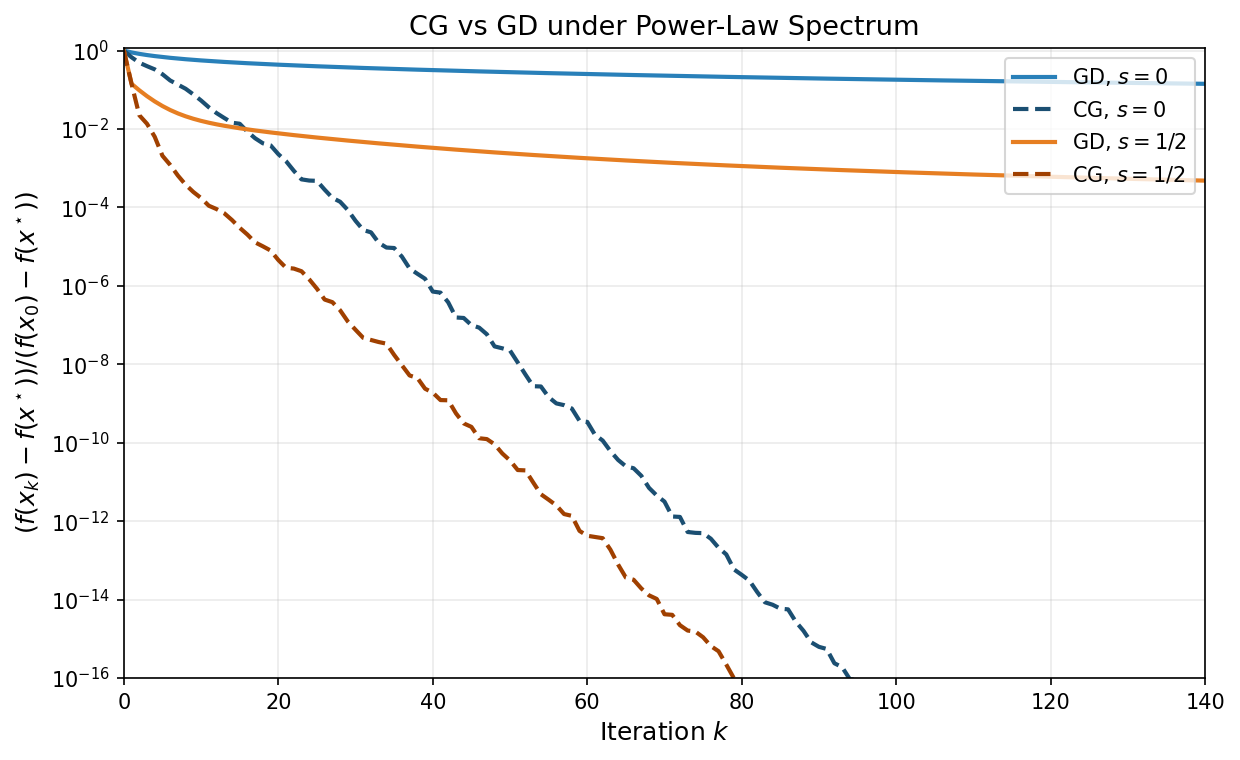
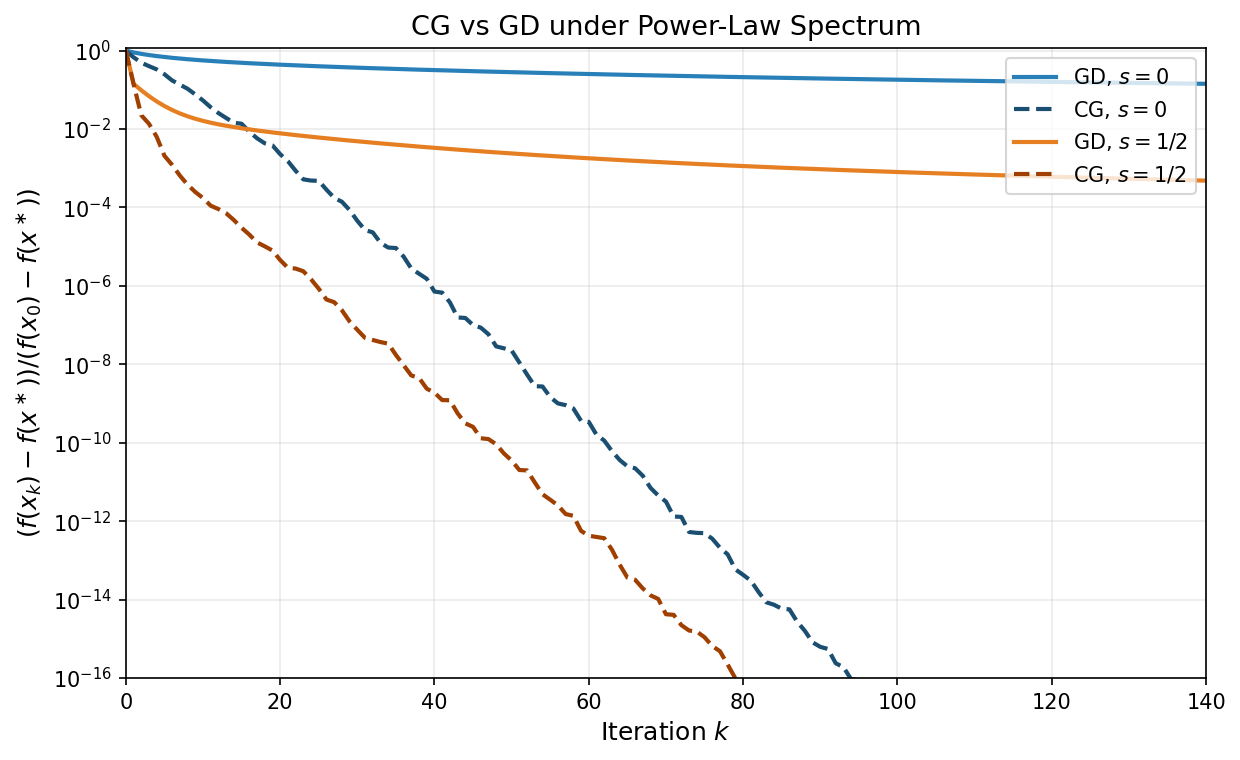
Align figure labels with text notation in week1
- Fix swapped regimes in spectral-density caption (left panel
  describes phi(lambda)=M*lambda^{a-1}; correct regimes are a>1,
  a=1, a<1, not a>0, a=0, a<0).
- Replace \star with \ast in matplotlib labels and annotations to
  match the notes (which use \ast throughout).
- Replace \min f with f^\ast in the GD condition-number plot.
- Use \hat\mu_i (eigenvalues of K/n) instead of \lambda_i in the
  source-condition figures, matching the surrounding text.
- Regenerate all affected static figures and the cg_vs_gd_mp and
  spectral_concentration animations.

Made-with: Cursor

diff --git a/scripts/generate_week1_gifs.py b/scripts/generate_week1_gifs.py
@@ -189,7 +189,7 @@ def make_gd_condition_number_performance_plot():
     ax.set_xlim(0, n_iters)
     ax.set_ylim(1e-16, None)
     ax.set_xlabel(r"Iteration $k$", fontsize=12)
-    ax.set_ylabel(r"$f(x_k)-\min\, f$", fontsize=12)
+    ax.set_ylabel(r"$f(x_k)-f^\ast$", fontsize=12)
     ax.set_title(r"Gradient descent with stepsize $1/\beta$: varying $\kappa$", fontsize=13)
     ax.grid(True, alpha=0.25)
     ax.legend(fontsize=10, ncol=2, loc="upper right")
@@ -281,7 +281,7 @@ def make_gif_convergence():
     ax.set_ylim(1e-15, 2)
     ax.set_yscale("log")
     ax.set_xlabel("Iteration", fontsize=12)
-    ax.set_ylabel(r"$(f(x_k)-f(x^\star))/(f(x_0)-f(x^\star))$", fontsize=12)
+    ax.set_ylabel(r"$(f(x_k)-f(x^\ast))/(f(x_0)-f(x^\ast))$", fontsize=12)
     ax.set_title("Convergence Comparison", fontsize=13)
     ax.grid(True, alpha=0.3)
 
@@ -433,7 +433,7 @@ def make_gd_vs_cg_plot():
     ax.annotate("$x_0$", x0, textcoords="offset points", xytext=(8, 5),
                 fontsize=12, zorder=5)
     ax.plot(0, 0, "*", color="gold", markersize=15, zorder=5)
-    ax.annotate("$x^\\star$", (0, 0), textcoords="offset points",
+    ax.annotate("$x^\\ast$", (0, 0), textcoords="offset points",
                 xytext=(8, -10), fontsize=12, zorder=5)
 
     ax.set_xlabel("$x_1$", fontsize=12)
@@ -472,7 +472,7 @@ def make_gd_vs_cg_gif():
     levels = np.linspace(0, zz.max() * 0.55, 30)
     ax.contour(xx, yy, zz, levels=levels, cmap="Greys", alpha=0.45)
     ax.plot(0, 0, "*", color="gold", markersize=15, zorder=5)
-    ax.annotate("$x^\\star$", (0, 0), textcoords="offset points",
+    ax.annotate("$x^\\ast$", (0, 0), textcoords="offset points",
                 xytext=(8, -10), fontsize=12, zorder=5)
     ax.plot(x0[0], x0[1], "o", color="black", markersize=8, zorder=5)
     ax.annotate("$x_0$", x0, textcoords="offset points", xytext=(8, 5),
@@ -801,7 +801,7 @@ def make_chebyshev_condition_number_performance_plot():
     ax.set_xlim(0, n_iters)
     ax.set_ylim(1e-16, None)
     ax.set_xlabel(r"Iteration $k$", fontsize=12)
-    ax.set_ylabel(r"$f(x_k)-f^\star$", fontsize=12)
+    ax.set_ylabel(r"$f(x_k)-f^\ast$", fontsize=12)
     ax.set_title(r"GD (solid) vs Chebyshev (dashed): varying $\kappa$", fontsize=13)
     ax.grid(True, alpha=0.25)
     ax.legend(fontsize=10, ncol=2, loc="upper right")
@@ -879,7 +879,7 @@ def make_gd_cheb_cg_condition_number_plot():
     ax.set_xlim(0, n_iters)
     ax.set_ylim(1e-16, None)
     ax.set_xlabel(r"Iteration $k$", fontsize=12)
-    ax.set_ylabel(r"$f(x_k)-f^\star$", fontsize=12)
+    ax.set_ylabel(r"$f(x_k)-f^\ast$", fontsize=12)
     ax.set_title(r"GD (solid) vs Chebyshev (dashed) vs CG (dotted): varying $\kappa$",
                  fontsize=13)
     ax.grid(True, alpha=0.25)
@@ -1303,7 +1303,7 @@ def make_cg_vs_gd_powerlaw_plot():
     ax.set_xlim(0, n_iters)
     ax.set_ylim(1e-16, 1.2)
     ax.set_xlabel("Iteration $k$", fontsize=12)
-    ax.set_ylabel(r"$(f(x_k)-f(x^\star))/(f(x_0)-f(x^\star))$", fontsize=12)
+    ax.set_ylabel(r"$(f(x_k)-f(x^\ast))/(f(x_0)-f(x^\ast))$", fontsize=12)
     ax.set_title("CG vs GD under Power-Law Spectrum", fontsize=13)
     ax.grid(True, alpha=0.25)
 
@@ -1348,7 +1348,7 @@ def make_cg_vs_gd_mp_gif():
     ax.set_xlim(0, n_iters)
     ax.set_ylim(1e-16, 1.2)
     ax.set_xlabel("Iteration $k$", fontsize=12)
-    ax.set_ylabel(r"$(f(x_k)-f(x^\star))/(f(x_0)-f(x^\star))$", fontsize=12)
+    ax.set_ylabel(r"$(f(x_k)-f(x^\ast))/(f(x_0)-f(x^\ast))$", fontsize=12)
     ax.set_title("CG vs GD across Marchenko--Pastur Regimes", fontsize=13)
     ax.grid(True, alpha=0.25)
 
@@ -1382,7 +1382,7 @@ def make_cg_vs_gd_mp_gif():
     ax.set_xlim(0, n_iters)
     ax.set_ylim(1e-16, 1.2)
     ax.set_xlabel("Iteration $k$", fontsize=12)
-    ax.set_ylabel(r"$(f(x_k)-f(x^\star))/(f(x_0)-f(x^\star))$", fontsize=12)
+    ax.set_ylabel(r"$(f(x_k)-f(x^\ast))/(f(x_0)-f(x^\ast))$", fontsize=12)
     ax.set_title("CG vs GD across Marchenko--Pastur Regimes", fontsize=13)
     ax.grid(True, alpha=0.25)
     for color, lab, err_gd, err_cg in zip(colors, labels, all_err_gd, all_err_cg):

diff --git a/scripts/plot_source_condition.py b/scripts/plot_source_condition.py
@@ -64,7 +64,7 @@ def _plot_source_condition(ax, eigvals, eigvecs, y, color, title):
     lam_range = np.array([ev[-1] * 0.5, ev[0] * 2])
     ax.loglog(lam_range, np.exp(intercept) * lam_range ** slope,
               "k--", linewidth=1.5,
-              label=(rf"$\lambda^{{{slope:.1f}}}$ fit "
+              label=(rf"$\hat\mu^{{{slope:.1f}}}$ fit "
                      rf"$\Rightarrow\; s' \approx {slope:.1f}$"))
 
     ax.set_title(title, fontsize=10.5)
@@ -99,7 +99,7 @@ def make_single_kernel_plot():
     _plot_source_condition(axes[1], eigvals, eigvecs, y_rough, "#d7191c",
                            "Rough: random signs")
 
-    axes[0].set_ylabel(r"$|c_i| = \lambda_i^{-1}|v_i^\top y|$", fontsize=12)
+    axes[0].set_ylabel(r"$|c_i| = \hat\mu_i^{-1}|v_i^\top y|$", fontsize=12)
     for ax in axes:
         ax.set_xlabel(r"Eigenvalue $\hat\mu_i$ of $K/n$", fontsize=12)
 
@@ -176,9 +176,9 @@ def make_all_kernels_plot():
     ax2.set_xscale("log")
     ax2.set_yscale("log")
     ax2.set_xlabel(r"Eigenvalue $\hat\mu_i$ of $K/n$", fontsize=12)
-    ax2.set_ylabel(r"$|c_i| = |b_i|/\lambda_i$", fontsize=12)
+    ax2.set_ylabel(r"$|c_i| = |b_i|/\hat\mu_i$", fontsize=12)
     ax2.set_title(
-        r"Initial error coefficients $c_i = b_i/\lambda_i$",
+        r"Initial error coefficients $c_i = b_i/\hat\mu_i$",
         fontsize=11)
     ax2.legend(fontsize=8.5, framealpha=0.9, loc="lower right")
     ax2.grid(True, alpha=0.25, which="both")

diff --git a/scripts/plot_spectral_concentration.py b/scripts/plot_spectral_concentration.py
@@ -58,7 +58,7 @@ def animate(frame):
     ax.set_ylim(0, max(y_top, 1e-6))
 
     title.set_text(
-        rf"$k = {k}$,  $\lambda^* = \beta/(2k+1) = {lam_star:.4f}$"
+        rf"$k = {k}$,  $\lambda^\ast = \beta/(2k+1) = {lam_star:.4f}$"
     )
     return line, vline, peak_dot, title
 

diff --git a/week1.md b/week1.md
@@ -982,7 +982,7 @@ $$\phi(\lambda) = M\,\lambda^{a-1} \qquad \text{on } (0, \beta],$$
 
 the exponent $a$ controls the spectral mass near zero. For $a > 1$, the density vanishes at zero (few eigenvalues near the origin); for $a = 1$, the density is flat; for $0 < a < 1$, the density diverges but remains integrable.
 
-The figure below illustrates the three regimes. The left panel plots the spectral error density $\phi(\lambda) = M\lambda^{a-1}$: for $a < 0$ it diverges at the origin, for $a = 0$ it is flat, and for $a > 0$ it vanishes. The right panel plots the integrand $\lambda\,\phi(\lambda) = M\lambda^a$ that appears in the spectral integral $\mathcal{E}_k$: even when $\phi$ itself is non-integrable ($a \leq 0$), the extra $\lambda$ factor makes the integrand integrable whenever $a > -1$.
+The figure below illustrates the three regimes. The left panel plots the spectral error density $\phi(\lambda) = M\lambda^{a-1}$: for $a > 1$ it vanishes at the origin, for $a = 1$ it is flat, and for $a < 1$ it diverges (still integrable when $a > 0$). The right panel plots the integrand $\lambda\,\phi(\lambda) = M\lambda^a$ that appears in the spectral integral $\mathcal{E}_k$: even when $\phi$ itself is non-integrable ($a \leq 0$), the extra $\lambda$ factor makes the integrand integrable whenever $a > -1$.
 
 ![Spectral error density regimes](figures/spectral_density_regimes.png)
 
